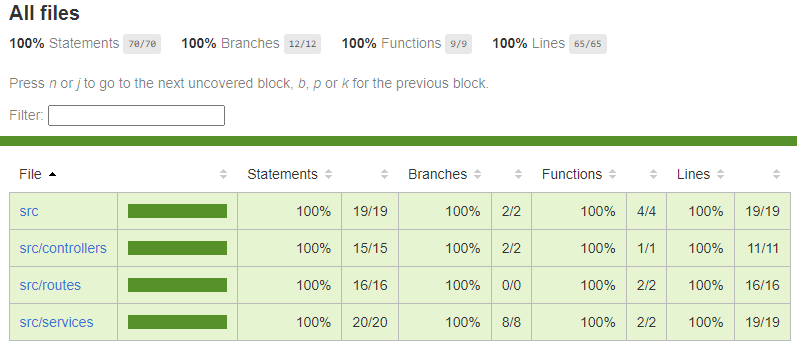
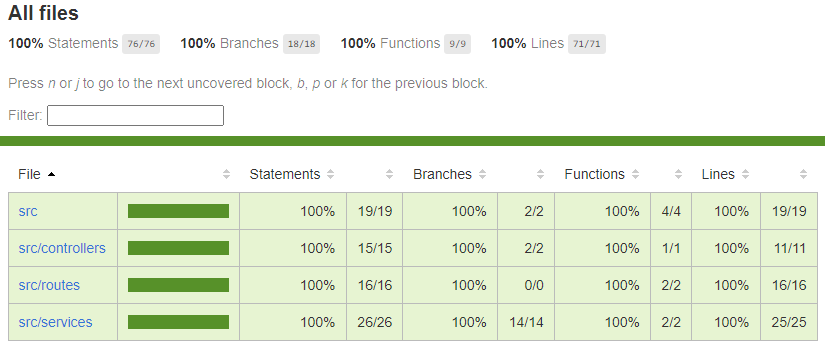
Fixed how the function behave with big numbers and strings

diff --git a/__tests__/negative.test.ts b/__tests__/negative.test.ts
@@ -32,6 +32,28 @@ describe('Negative Tests Suite', () => {
     expect(calculateResponse.text).to.include('Oops, something went wrong...');
   });
 
+  it('Input type not supported', async () => {
+    const calculateResponse = await request(app).post('/api/V0.1/calculate').send({
+      firstNumber: 'a',
+      secondNumber: 0,
+      operator: '+',
+    });
+    expect(calculateResponse.status).to.equal(500);
+    expect(calculateResponse.type).to.equal('text/html');
+    expect(calculateResponse.text).to.include('Oops, something went wrong...');
+  });
+
+  it('Input size not supported', async () => {
+    const calculateResponse = await request(app).post('/api/V0.1/calculate').send({
+      firstNumber: '222222222222222222222222222222222222222222222222222222222222222222222222222222222222222222222222222222222222222222222222222222222222222222222222222222222222222222222222222222222222222222222222222222222222222222222222222222222222222222222222222',
+      secondNumber: '222222222222222222222222222222222222222222222222222222222222222222222222222222222222222222222222222222222222222222222222222222222222222222222222222222222222222222222222222222222222222222222222222222222222222222222222222222222222222222222222222',
+      operator: '*',
+    });
+    expect(calculateResponse.status).to.equal(500);
+    expect(calculateResponse.type).to.equal('text/html');
+    expect(calculateResponse.text).to.include('Oops, something went wrong...');
+  });
+
   it('Redirecting Found', async () => {
     const RedirectResponse = await request(app).get('/');
     expect(RedirectResponse.status).to.equal(302);

diff --git a/src/services/calculation.service.ts b/src/services/calculation.service.ts
@@ -5,8 +5,17 @@ export declare type Operator =
   | '/'
 
 export class CalculationService {
-  calculate(a: number, b: number, operator: Operator): string {
+  calculate(firstNumber: number, secondNumber: number, operator: Operator): string {
     let output = 0;
+    if ((firstNumber.toString().length + secondNumber.toString().length) > 250
+      || (firstNumber.toString().split('e+')[1] + secondNumber.toString().split('e+')[1]).length > 4) {
+      throw new Error('Input size not supported');
+    }
+    const a = Number(firstNumber);
+    const b = Number(secondNumber);
+    if (Number.isNaN(a) || Number.isNaN(b)) {
+      throw new Error('Input type not supported');
+    }
     switch (operator) {
       case '+':
         output = a + b;

diff --git a/index.html b/index.html
@@ -466,7 +466,7 @@
 			warning.</li>
 		<li>You should run unit tests by running <code>npm test</code> - Make sure that all the tests pass.</li>
 		<li>The test coverage should remain at <strong>100%</strong> :
-			<code>100% Statements 70/70 | 100% Branches 12/12 | 100% Functions 9/9 | 100% Lines 65/65</code> - Make sure
+			<code>100% Statements 76/76 | 100% Branches 18/18 | 100% Functions 9/9 | 100% Lines 71/71</code> - Make sure
 			to add tests if needed.
 		</li>
 		<li><strong>Always</strong> increment* the version, according to the specifications below.</li>

diff --git a/README.md b/README.md
@@ -81,7 +81,7 @@ PRs are only possible from a separate branch.
 Before submitting a PR please validate lint, unit tests, test cover and version update:
 - You should fix linting issues by running `npm run fix-lint` - Make sure to fix every error and warning.
 - You should run unit tests by running `npm test` - Make sure that all the tests pass.
-- The test coverage should remain at **100%** : `100% Statements 70/70 | 100% Branches 12/12 | 100% Functions 9/9 | 100% Lines 65/65` - Make sure to add tests if needed.
+- The test coverage should remain at **100%** : `100% Statements 76/76 | 100% Branches 18/18 | 100% Functions 9/9 | 100% Lines 71/71` - Make sure to add tests if needed.
 - **Always** increment* the version, according to the specifications below.
 - Adding a unit test that uncover a bug is very welcome - I will create a fix for the bug that will allow you to pull and merge your unit test ASAP.
 
